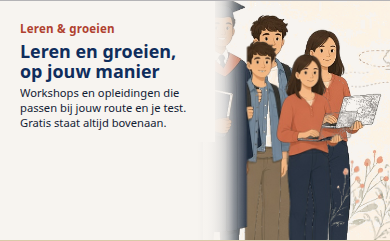
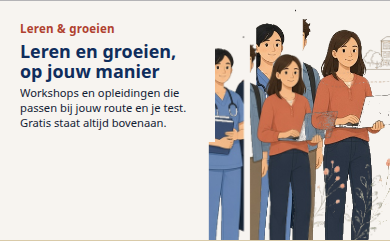
Opleidingen r12: drop graduation figure from mobile hero crop, shift trio right.

Changed region(s): [[0.5231, 0.0, 1.0, 1.0]]

diff --git a/Jobsy.Web/wwwroot/css/features/opleidingen.css b/Jobsy.Web/wwwroot/css/features/opleidingen.css
@@ -1116,14 +1116,14 @@
     -webkit-mask-image: linear-gradient(
       90deg,
       transparent 0%,
-      rgb(0 0 0 / 0.45) 14%,
-      #000 26%
+      rgb(0 0 0 / 0.5) 18%,
+      #000 32%
     );
     mask-image: linear-gradient(
       90deg,
       transparent 0%,
-      rgb(0 0 0 / 0.45) 14%,
-      #000 26%
+      rgb(0 0 0 / 0.5) 18%,
+      #000 32%
     );
   }
 
@@ -1134,8 +1134,8 @@
     position: absolute;
     top: 0;
     bottom: 0;
-    left: 52%;
-    width: 8%;
+    left: 54%;
+    width: 6%;
     z-index: 1;
     pointer-events: none;
     background: linear-gradient(
@@ -1162,7 +1162,7 @@
     background-image: var(--cand-hero-figures, none) !important;
     background-repeat: no-repeat;
     background-size: auto 90%;
-    background-position: left bottom;
+    background-position: 22% 100%;
     opacity: 1;
   }
 

diff --git a/tools/scripts/build-leren-groeien-hero-mobile-r12.py b/tools/scripts/build-leren-groeien-hero-mobile-r12.py
@@ -1,0 +1,161 @@
+#!/usr/bin/env python3
+"""R12: mobile panel without graduation gown (stays off fade / no ghost)."""
+from __future__ import annotations
+
+from pathlib import Path
+
+from PIL import Image
+
+PEARL = (247, 244, 240)
+SRC = Path(__file__).resolve().parents[2] / "Jobsy.Web/wwwroot/images/candidate-illustrated/leren-groeien-hero.jpg"
+OUT_DIR = SRC.parent
+OUT_FIGURES = OUT_DIR / "leren-groeien-hero-figures-mobile.png"
+OUT_ATMO = OUT_DIR / "leren-groeien-hero-mobile-atmosphere.png"
+
+# Source layout: nurse ~168–288, gown ~288–412, student+woman ~412+.
+NURSE_BOX = (168, 288, 240, 718)
+DUO_BOX = (400, 286, 715, 718)  # student + laptop woman (after gown)
+BOOKS_BOX = (998, 430, 1274, 718)
+PANEL_W = 820
+PANEL_H = 460
+FEATHER = 110
+FIGURES_PASTE_X = 138
+
+
+def is_background(r: int, g: int, b: int) -> bool:
+    lum = 0.299 * r + 0.587 * g + 0.114 * b
+    mx, mn = max(r, g, b), min(r, g, b)
+    sat = (mx - mn) / mx if mx else 0.0
+    if lum >= 188 and sat <= 0.22:
+        return True
+    if abs(r - PEARL[0]) <= 10 and abs(g - PEARL[1]) <= 10 and abs(b - PEARL[2]) <= 12:
+        return True
+    return False
+
+
+def is_line_art(r: int, g: int, b: int) -> bool:
+    lum = 0.299 * r + 0.587 * g + 0.114 * b
+    mx, mn = max(r, g, b), min(r, g, b)
+    sat = (mx - mn) / mx if mx else 0.0
+    return lum >= 145 and sat <= 0.11
+
+
+def matting(rgba: Image.Image, *, keep_background: bool) -> Image.Image:
+    px = rgba.load()
+    w, h = rgba.size
+    for y in range(h):
+        for x in range(w):
+            r, g, b, a = px[x, y]
+            if is_line_art(r, g, b):
+                px[x, y] = (PEARL[0], PEARL[1], PEARL[2], 0)
+            elif is_background(r, g, b):
+                if keep_background:
+                    px[x, y] = (r, g, b, 200)
+                else:
+                    px[x, y] = (r, g, b, 0)
+    return rgba
+
+
+def mask_band(rgba: Image.Image, start_frac: float, end_frac: float) -> None:
+    w, h = rgba.size
+    x0 = int(w * start_frac)
+    x1 = int(w * end_frac)
+    px = rgba.load()
+    for x in range(x0, min(x1, w)):
+        for y in range(h):
+            px[x, y] = (0, 0, 0, 0)
+
+
+def feather_left(rgba: Image.Image) -> Image.Image:
+    w, h = rgba.size
+    px = rgba.load()
+    for x in range(min(FEATHER, w)):
+        f = x / FEATHER
+        for y in range(h):
+            r, g, b, a = px[x, y]
+            px[x, y] = (r, g, b, int(a * f))
+    return rgba
+
+
+def matte_crop_loose(src: Image.Image, box: tuple[int, int, int, int]) -> Image.Image:
+    layer = src.crop(box).convert("RGBA")
+    px = layer.load()
+    w, h = layer.size
+    for y in range(h):
+        for x in range(w):
+            r, g, b, _a = px[x, y]
+            if is_background(r, g, b) or is_line_art(r, g, b):
+                px[x, y] = (0, 0, 0, 0)
+    bbox = layer.getchannel("A").getbbox()
+    if not bbox:
+        raise SystemExit(f"empty crop {box}")
+    return layer.crop(bbox)
+
+
+def matte_crop(src: Image.Image, box: tuple[int, int, int, int]) -> Image.Image:
+    return matte_crop_loose(src, box)
+
+
+def prepare_people_strip(src: Image.Image) -> Image.Image:
+    nurse = matte_crop_loose(src, NURSE_BOX)
+    duo = matte_crop_loose(src, DUO_BOX)
+    gap = 12
+    w = nurse.width + gap + duo.width
+    h = max(nurse.height, duo.height)
+    strip = Image.new("RGBA", (w, h), (0, 0, 0, 0))
+    strip.paste(nurse, (0, h - nurse.height), nurse)
+    strip.paste(duo, (nurse.width + gap, h - duo.height), duo)
+    bbox = strip.getchannel("A").getbbox()
+    return strip.crop(bbox) if bbox else strip
+
+
+def build_people_layer(src: Image.Image) -> Image.Image:
+    people = prepare_people_strip(src)
+    books = src.crop(BOOKS_BOX).convert("RGBA")
+    books = matting(books, keep_background=False)
+    books = books.resize((int(books.width * 0.55), int(books.height * 0.55)), Image.Resampling.LANCZOS)
+
+    canvas = Image.new("RGBA", (PANEL_W, PANEL_H), (0, 0, 0, 0))
+    people_h = PANEL_H - 8
+    people_w = int(people.width * (people_h / people.height))
+    people = people.resize((people_w, people_h), Image.Resampling.LANCZOS)
+    paste_x = FIGURES_PASTE_X
+    canvas.paste(people, (paste_x, PANEL_H - people_h), people)
+    bx = min(paste_x + people_w - 24, PANEL_W - books.width - 4)
+    by = PANEL_H - books.height
+    canvas.paste(books, (bx, by), books)
+    return canvas
+
+
+def build_atmosphere_layer(src: Image.Image) -> Image.Image:
+    strip = prepare_people_strip(src)
+    people = strip.resize(
+        (int(strip.width * (PANEL_H / strip.height)), PANEL_H),
+        Image.Resampling.LANCZOS,
+    )
+    panel = Image.new("RGBA", (PANEL_W, PANEL_H), (PEARL[0], PEARL[1], PEARL[2], 0))
+    panel.paste(people, (FIGURES_PASTE_X, 0), people)
+    people = matting(panel, keep_background=True)
+    px = people.load()
+    w, h = people.size
+    for y in range(h):
+        for x in range(w):
+            r, g, b, a = px[x, y]
+            if a and is_line_art(r, g, b):
+                px[x, y] = (PEARL[0], PEARL[1], PEARL[2], 0)
+    return feather_left(people)
+
+
+def main() -> None:
+    src = Image.open(SRC).convert("RGB")
+    fig = build_people_layer(src)
+    atmo = build_atmosphere_layer(src)
+    OUT_DIR.mkdir(parents=True, exist_ok=True)
+    fig.save(OUT_FIGURES, optimize=True)
+    atmo.save(OUT_ATMO, optimize=True)
+    print(f"wrote {OUT_FIGURES} size={fig.size}")
+    print(f"wrote {OUT_ATMO} size={atmo.size}")
+
+
+if __name__ == "__main__":
+    main()

diff --git a/Jobsy.Web/Hosting/PageAssetCatalog.cs b/Jobsy.Web/Hosting/PageAssetCatalog.cs
@@ -58,7 +58,7 @@ public static class PageAssetCatalog
         "css/features/tests.css?v=20261018-04",
         "css/features/candidate-illustrated-app.css?v=20261018-19",
         "css/features/carriere.css?v=20261011-01",
-        "css/features/opleidingen.css?v=20261018-r11",
+        "css/features/opleidingen.css?v=20261018-r12",
         "css/features/occupation-day.css?v=20261005-23",
         "css/features/honest-advice.css?v=20261005-07",
         "css/features/future-jobs.css?v=20261006-02",

diff --git a/Jobsy.Web/Media/CandidateIllustratedImages.cs b/Jobsy.Web/Media/CandidateIllustratedImages.cs
@@ -3,7 +3,7 @@ namespace Jobsy.Web.Media;
 /// <summary>Versioned URLs for candidate-facing illustrated pages (login, start, kompas, banenkaart).</summary>
 public static class CandidateIllustratedImages
 {
-    public const string Version = "20261018-11";
+    public const string Version = "20261018-17";
     private const string Base = $"/images/candidate-illustrated";
 
     public static string Url(string file) => $"{Base}/{file}?v={Version}";

diff --git a/tools/scripts/build-leren-groeien-hero-figures-mobile.py b/tools/scripts/build-leren-groeien-hero-figures-mobile.py
@@ -6,7 +6,7 @@ import subprocess
 import sys
 from pathlib import Path
 
-R10 = Path(__file__).resolve().parent / "build-leren-groeien-hero-mobile-r11.py"
+R10 = Path(__file__).resolve().parent / "build-leren-groeien-hero-mobile-r12.py"
 
 if __name__ == "__main__":
     raise SystemExit(subprocess.call([sys.executable, str(R10)]))
